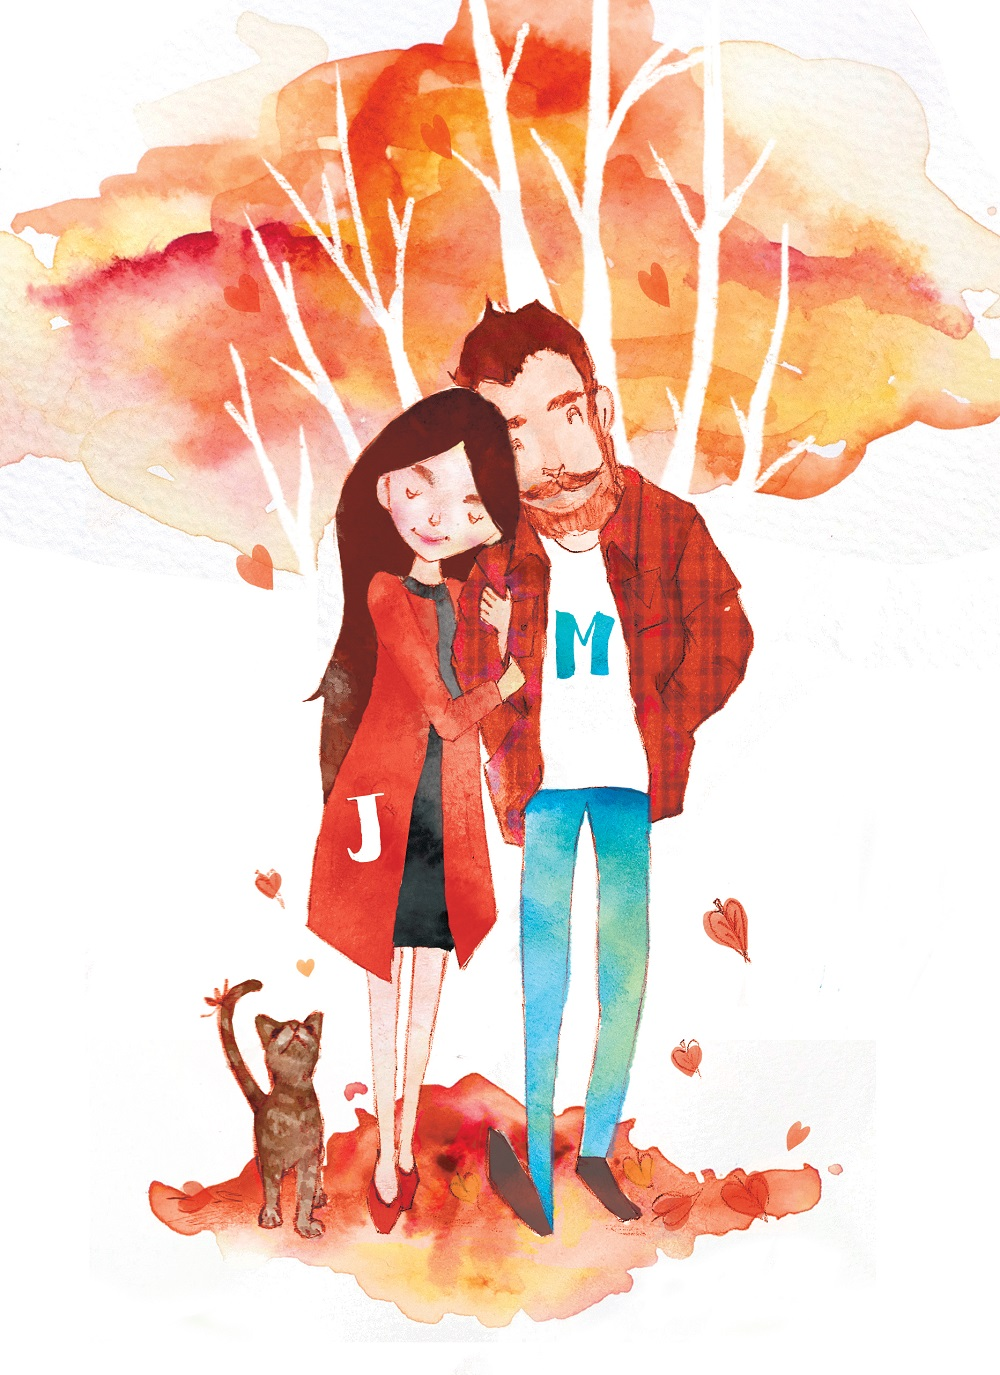
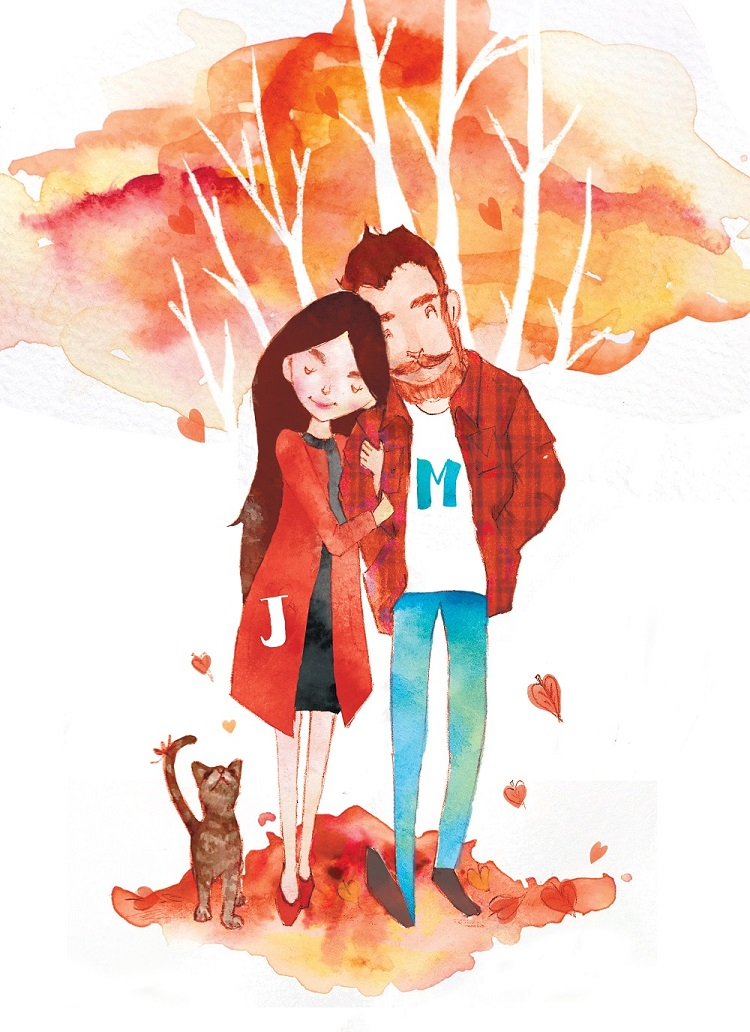
reduced size of bg image (improve load time)

diff --git a/photos.html b/photos.html
@@ -59,7 +59,7 @@
         <div class="header" id="#headercontainer">
             <div class="headerwide " >
                 <div class="headertxtmass">
-                    <span>Matt and Jenn </span><br><span>in Massachusetts</span>
+                    <span>Matt and Jenn </span>
 
                 </div>
             </div>

diff --git a/src/css/mattandjen.css b/src/css/mattandjen.css
@@ -78,7 +78,7 @@
     background-size: cover ;
 }
 .fbg_invit {
-    background-image: url("/src/img/2000.png");
+    background-image: url("/src/img/1000.png");
     /*height: 1100px;*/
     background-repeat: no-repeat;
     /*background-position: center;*/
